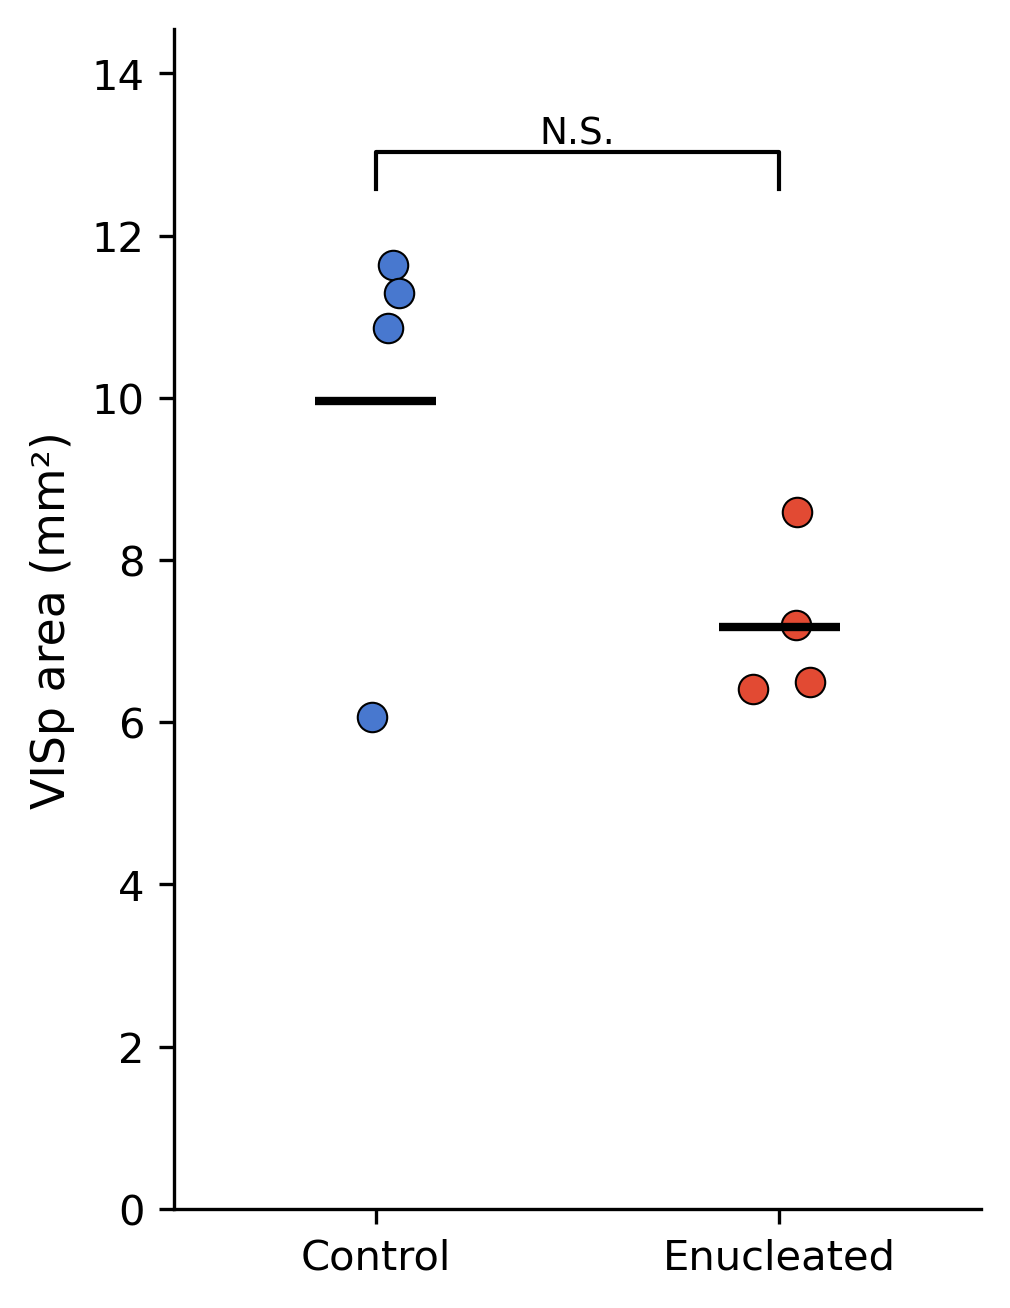
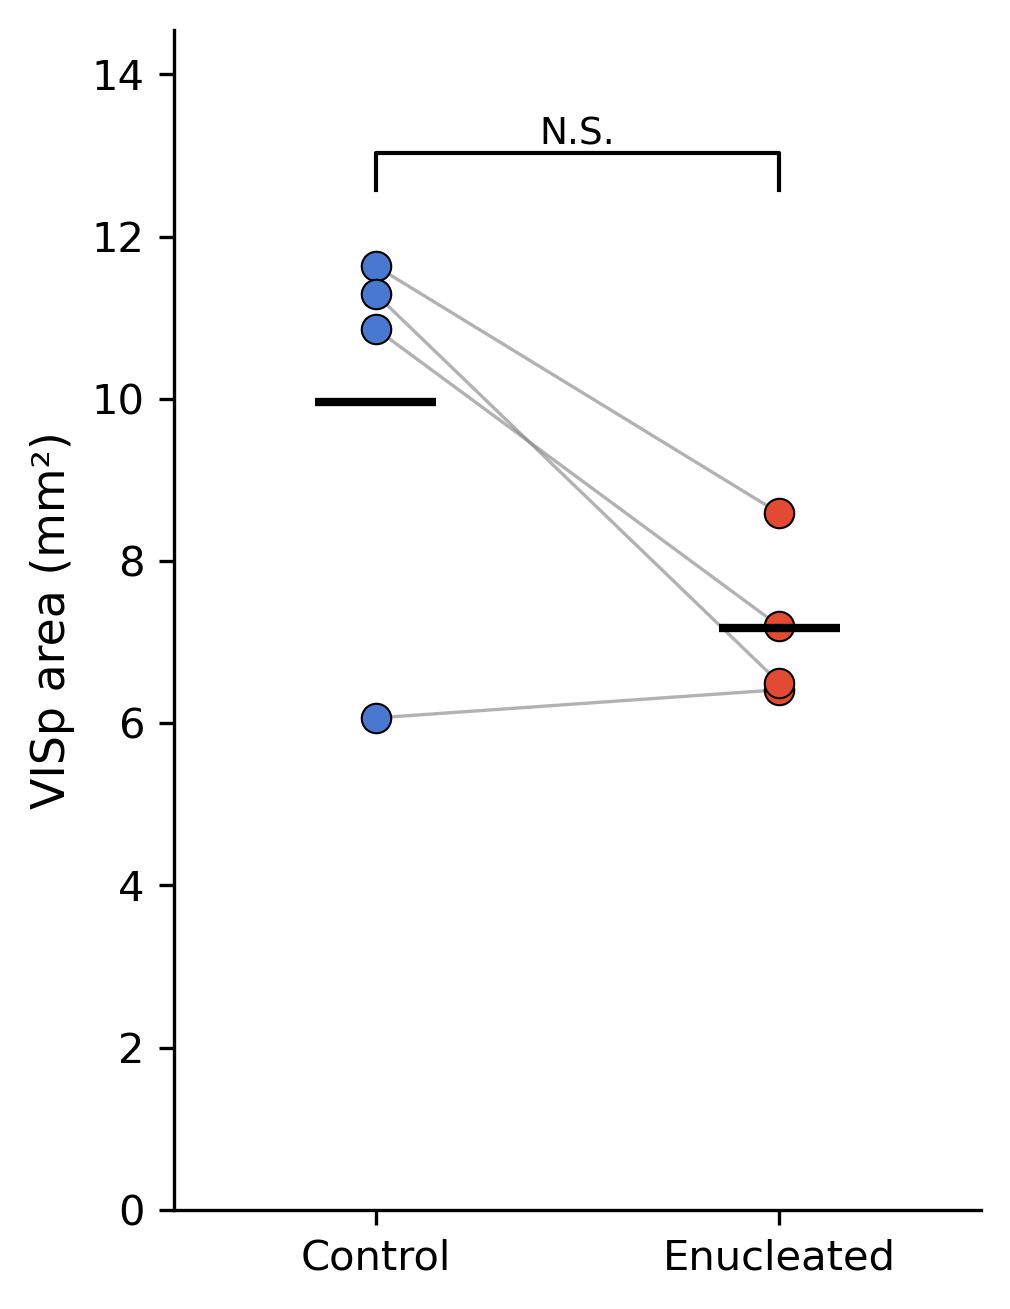
Show littermate pairing in VISp area comparison plot
Draw lines connecting matched control/enucleated littermates and switch
from unpaired to paired t-test (p=0.086). Three of four litters show
clear VISp reduction after enucleation.

diff --git a/applications/brain_annotation/paper_figures/fig3/compute_visp_area.py b/applications/brain_annotation/paper_figures/fig3/compute_visp_area.py
@@ -217,7 +217,7 @@ def compute_visp_areas(all_brains, X_grid, pixel_area_per_point):
 
 
 def plot_visp_comparison(df):
-    """Two-column strip plot with individual points, means, and t-test significance bracket."""
+    """Paired strip plot with lines connecting littermates, means, and paired t-test."""
     from scipy import stats
 
     plt.rcParams.update({
@@ -232,27 +232,40 @@ def plot_visp_comparison(df):
     fig, ax = plt.subplots(figsize=(3.5, 4.5))
 
     colors = {"control": "#4878CF", "enucleated": "#E24A33"}
-    x_positions = {"control": 0, "enucleated": 1}
+    x_ctrl, x_enuc = 0, 1
 
-    ctrl_vals = df[df["condition"] == "control"]["visp_area"].values
-    enuc_vals = df[df["condition"] == "enucleated"]["visp_area"].values
+    # Extract litter from brain name (e.g. "D076_1L" -> "D076")
+    df = df.copy()
+    df["litter"] = df["brain"].str[:4]
 
-    # Individual points with jitter
-    rng = np.random.default_rng(42)
-    for condition, vals in [("control", ctrl_vals), ("enucleated", enuc_vals)]:
-        x_base = x_positions[condition]
-        jitter = rng.uniform(-0.08, 0.08, size=len(vals))
-        ax.scatter(
-            np.full(len(vals), x_base) + jitter, vals,
-            color=colors[condition], s=50, zorder=3, edgecolors="black", linewidths=0.5,
-        )
-        # Mean bar
-        ax.hlines(vals.mean(), x_base - 0.15, x_base + 0.15,
-                  color="black", linewidth=2, zorder=4)
+    # Get paired values by litter
+    ctrl_df = df[df["condition"] == "control"].set_index("litter")
+    enuc_df = df[df["condition"] == "enucleated"].set_index("litter")
+    litters = sorted(ctrl_df.index.intersection(enuc_df.index))
 
-    # T-test
-    t_stat, p_val = stats.ttest_ind(ctrl_vals, enuc_vals)
-    print(f"  t-test: t={t_stat:.3f}, p={p_val:.4f}")
+    ctrl_vals = ctrl_df.loc[litters, "visp_area"].values
+    enuc_vals = enuc_df.loc[litters, "visp_area"].values
+
+    # Draw connecting lines between littermates
+    for c_val, e_val in zip(ctrl_vals, enuc_vals):
+        ax.plot([x_ctrl, x_enuc], [c_val, e_val],
+                color="gray", linewidth=0.8, zorder=2, alpha=0.6)
+
+    # Individual points (no jitter — paired lines need fixed x)
+    ax.scatter(np.full(len(ctrl_vals), x_ctrl), ctrl_vals,
+               color=colors["control"], s=50, zorder=3, edgecolors="black", linewidths=0.5)
+    ax.scatter(np.full(len(enuc_vals), x_enuc), enuc_vals,
+               color=colors["enucleated"], s=50, zorder=3, edgecolors="black", linewidths=0.5)
+
+    # Mean bars
+    ax.hlines(ctrl_vals.mean(), x_ctrl - 0.15, x_ctrl + 0.15,
+              color="black", linewidth=2, zorder=4)
+    ax.hlines(enuc_vals.mean(), x_enuc - 0.15, x_enuc + 0.15,
+              color="black", linewidth=2, zorder=4)
+
+    # Paired t-test
+    t_stat, p_val = stats.ttest_rel(ctrl_vals, enuc_vals)
+    print(f"  paired t-test: t={t_stat:.3f}, p={p_val:.4f}")
 
     # Significance bracket
     y_max = df["visp_area"].max()
